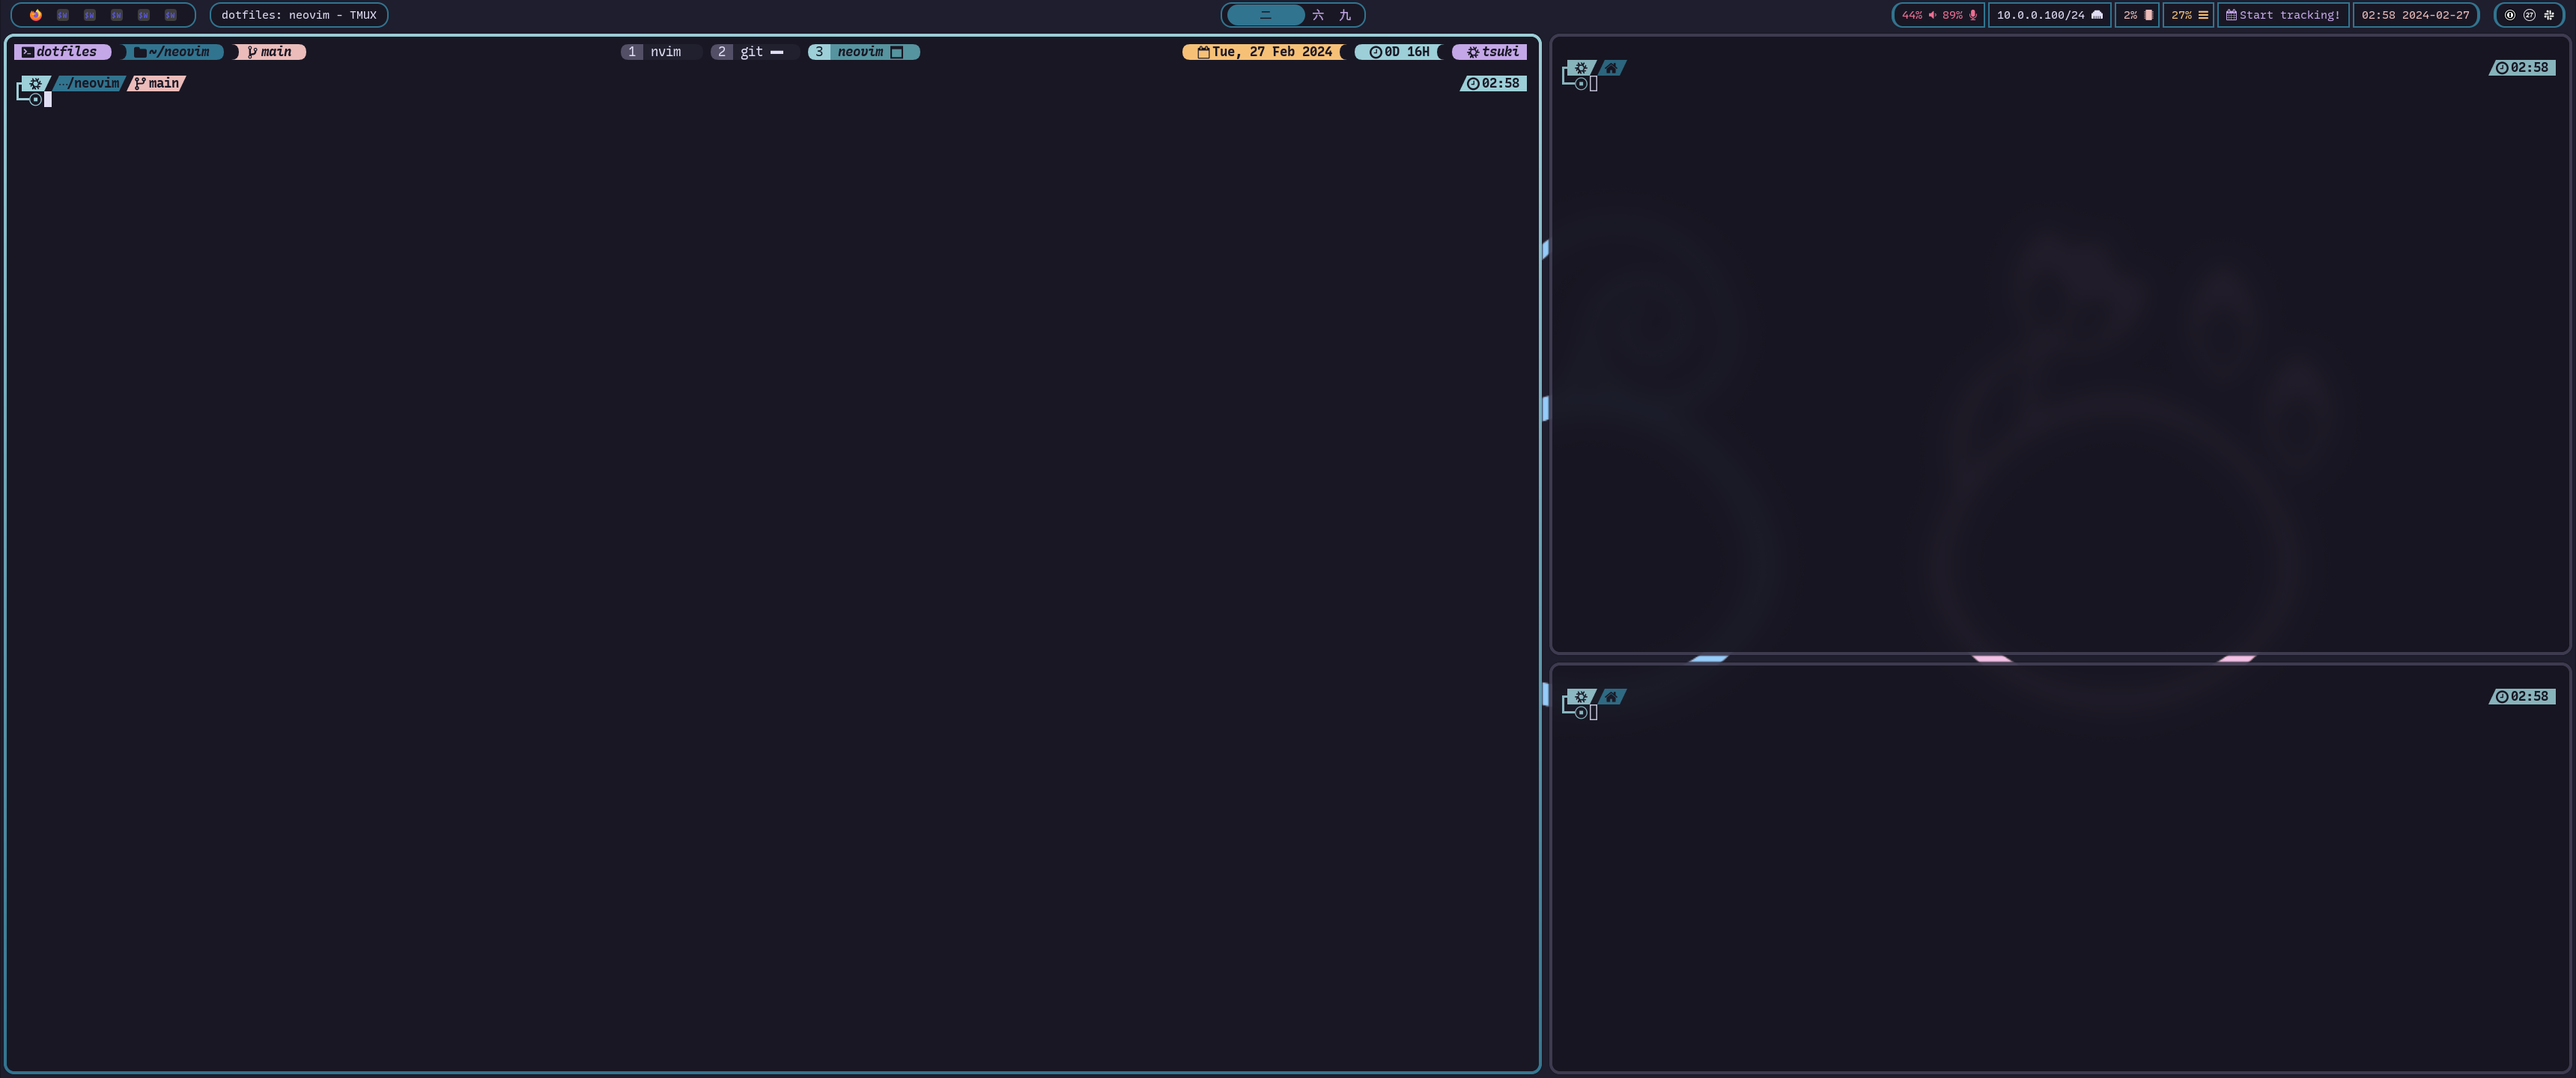
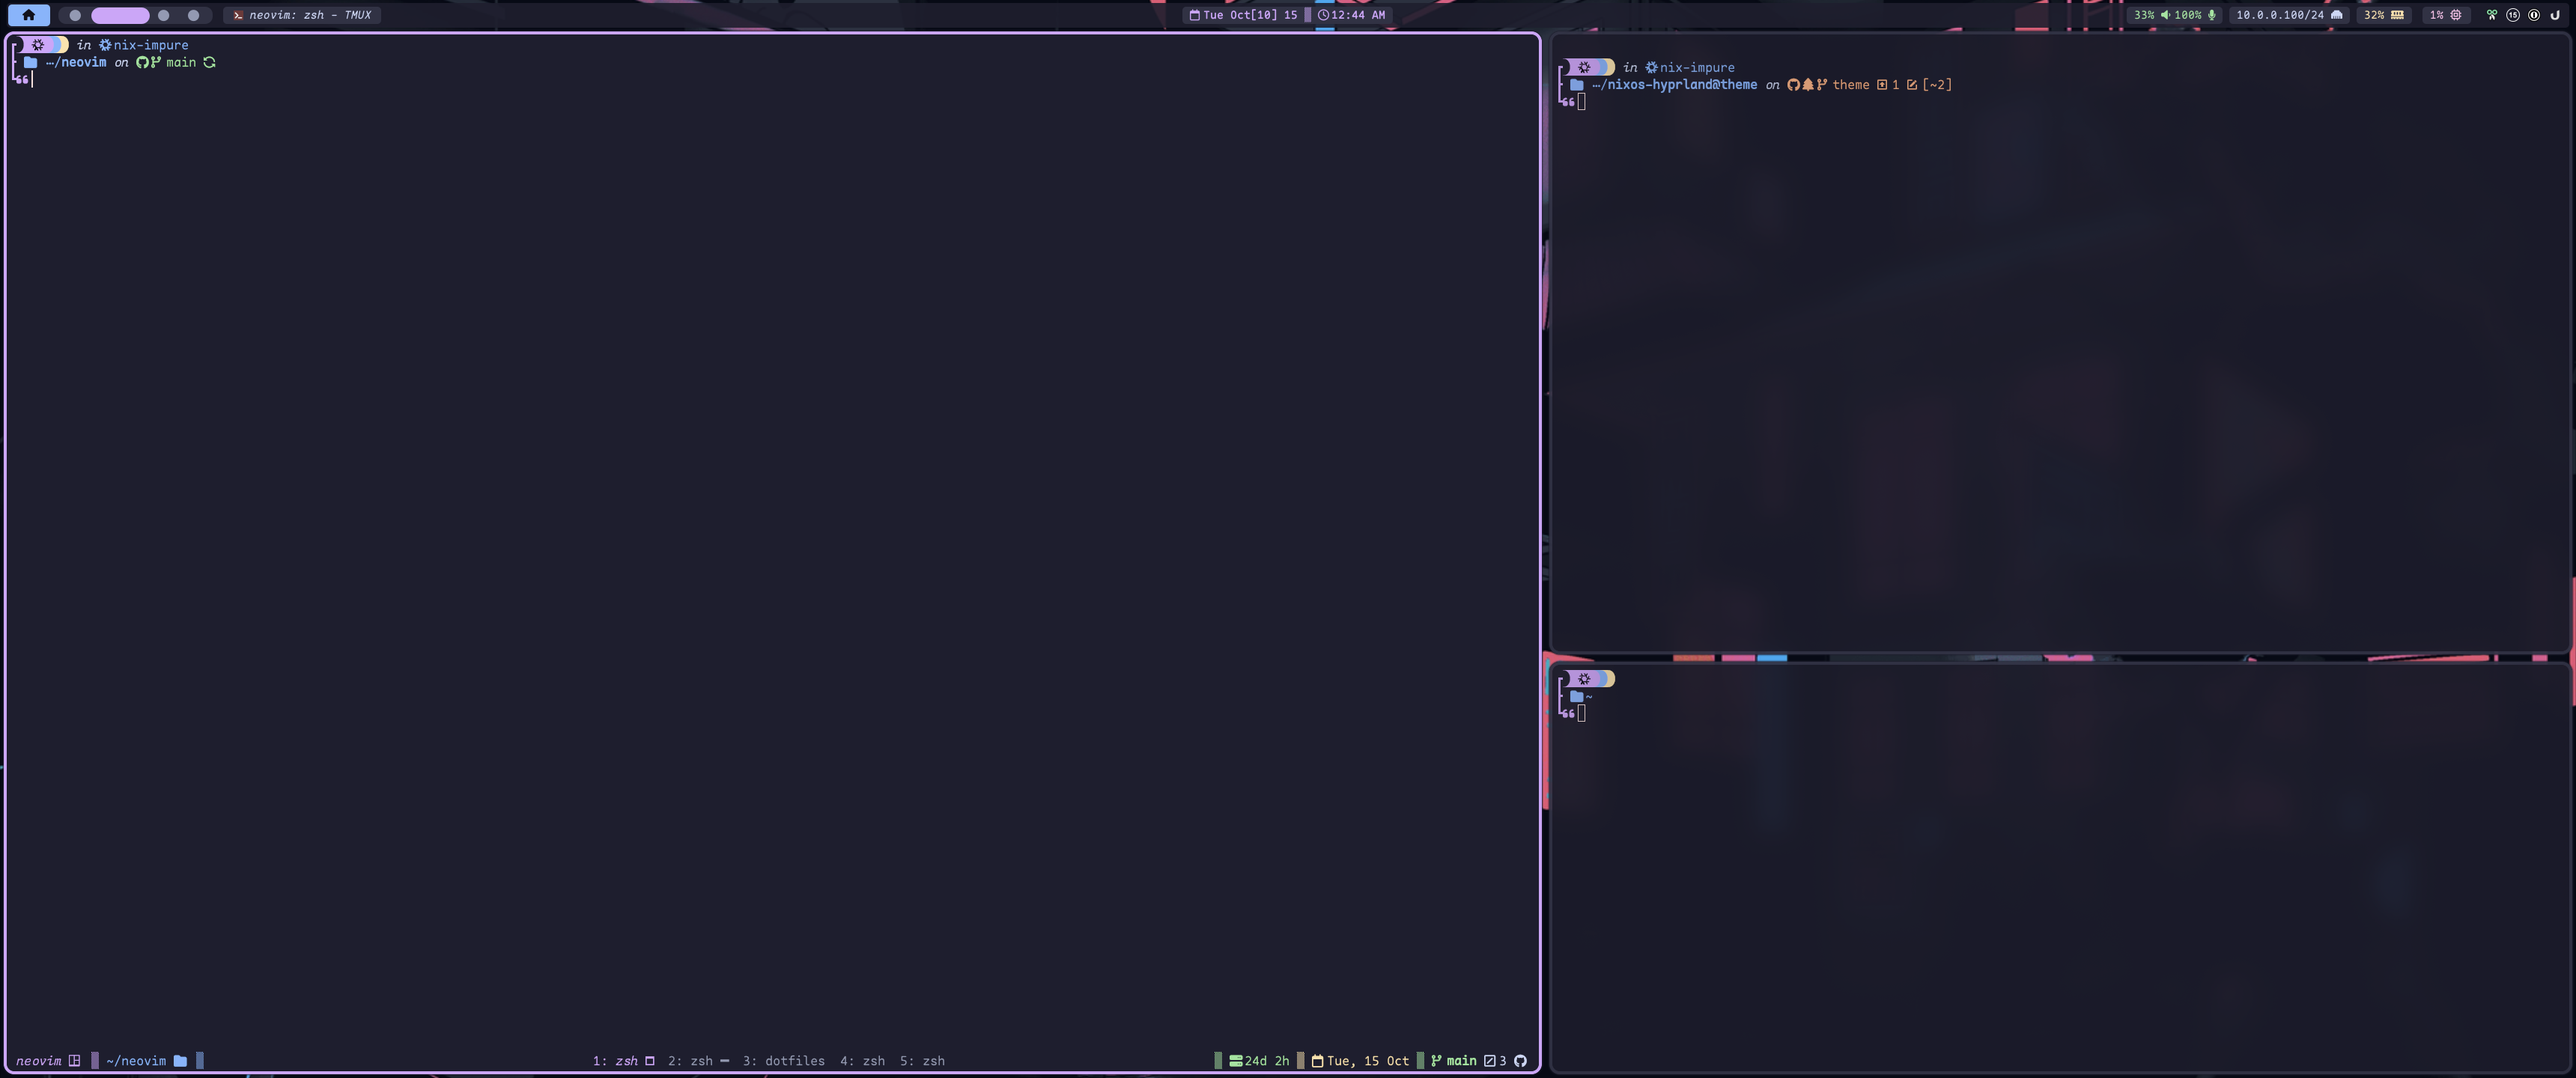
chore: update README with v2 information

diff --git a/README.md b/README.md
@@ -1,7 +1,7 @@
 <!-- markdownlint-disable -->
 <h1 align="center">
     <a name="top" title="nixos-hyprland">
-        nixos-hyprland
+        nixos-hyprland v2
     </a>
 </h1>
 <div align="center">
@@ -36,8 +36,8 @@
 - OS: [NixOS](https://nixos.org)
 - Window manager: [Hyprland](https://hyprland.org)
 - Status bar: [Waybar](https://github.com/Alexays/Waybar)
-- Terminal: [Wezterm](https://wezfurlong.org/wezterm/)
-- Shell: `Zsh` with plugins managed through [antidote](https://github.com/mattmc3/antidote)
+- Terminal: [Kitty](https://sw.kovidgoyal.net/kitty/)
+- Shell: `Zsh` with plugins managed through [antidote](https://github.com/mattmc3/antidote) with [oh-my-posh](https://ohmyposh.dev/) prompt
 - Current theme: [Catppuccin](https://catppuccin.com/)
 - Font: [Maple Mono](https://github.com/subframe7536/maple-font)
 - Editor: [Neovim](https://neovim.io). Configuration can be found [here](https://github.com/dileep-kishore/neovim)
@@ -48,9 +48,9 @@
 | :------------------------------: |
 | ![desktop](./assets/desktop.png) |
 
-|           Terminal + Tmux            |
-| :----------------------------------: |
-| ![terminals](assets/./terminals.png) |
+|              Terminal + Tmux              |
+| :---------------------------------------: |
+| ![terminals_tmux](./assets/terminals.png) |
 
 |             Neovim             |
 | :----------------------------: |
@@ -68,7 +68,7 @@
 
 ### Requirements
 
-- NixOS 23.11 or Home-manager
+- NixOS 24.11 or Home-manager
 - Patience
 - Knowledge
 - Disk space
